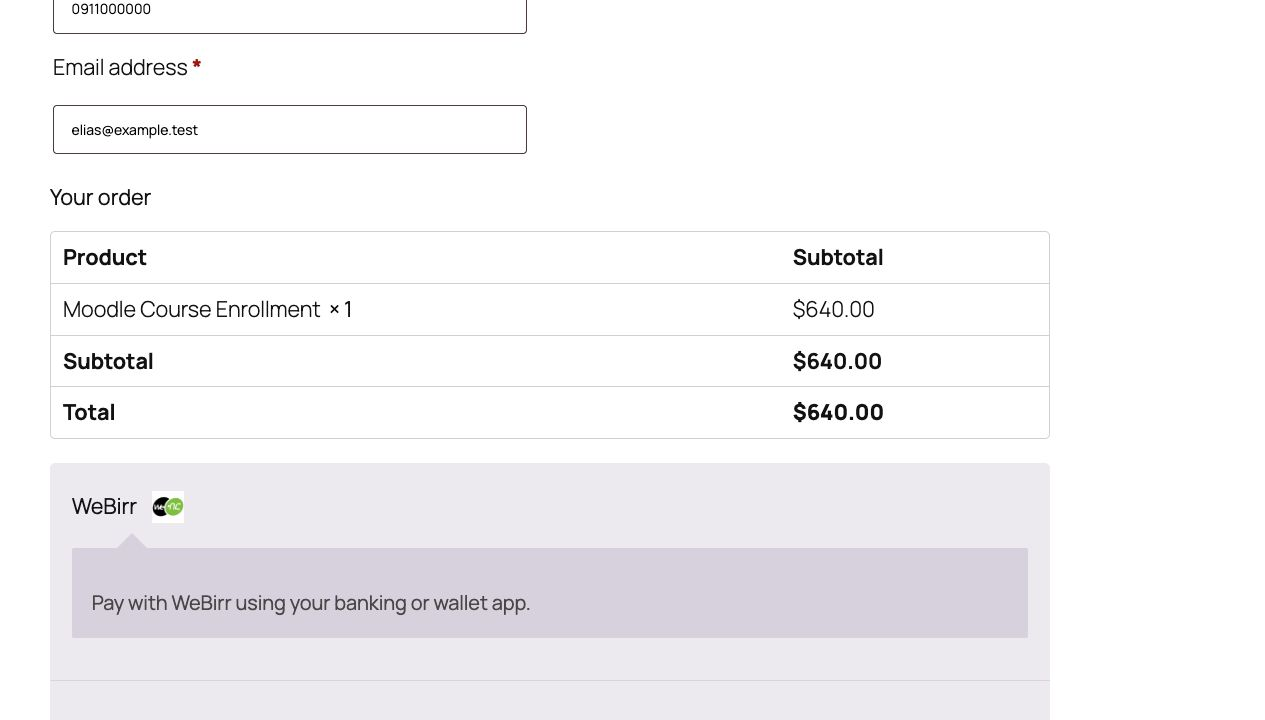
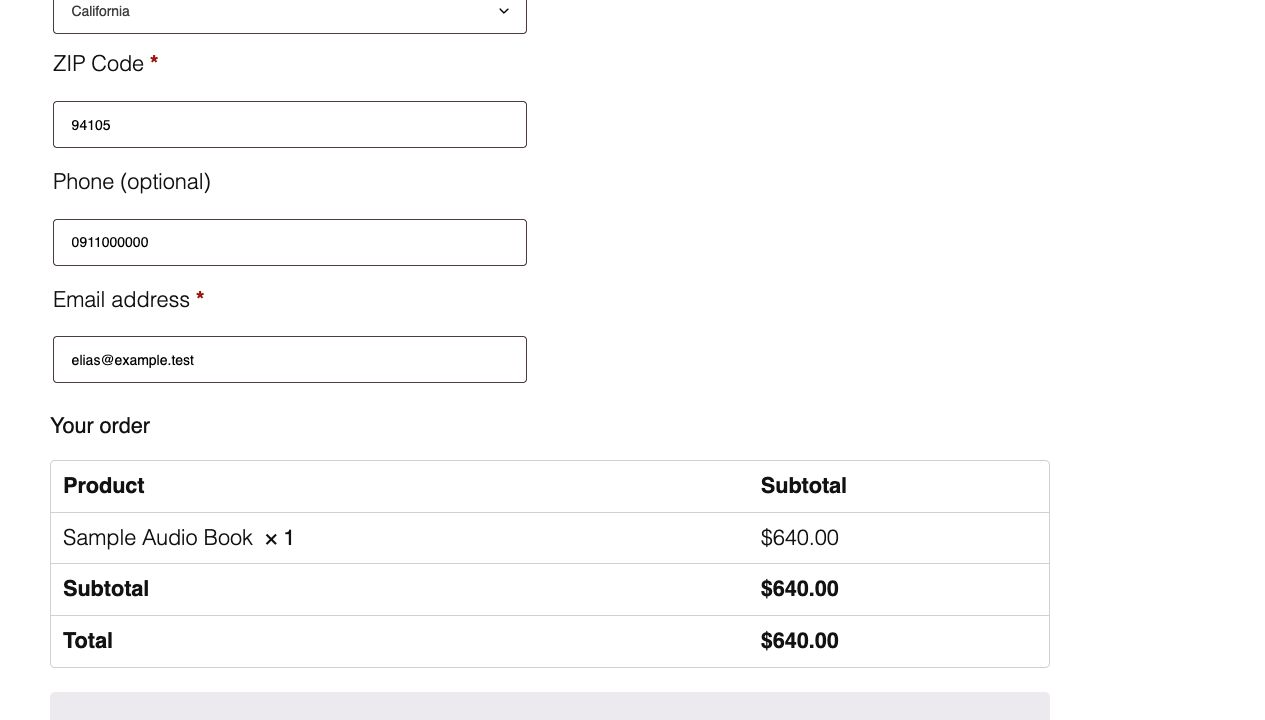
checkout sample cleanup

diff --git a/examples/standalone-checkout-demo/index.php b/examples/standalone-checkout-demo/index.php
@@ -81,9 +81,9 @@ function handle_api(string $path): void {
 
 function create_bill(): void {
     $payload = read_json_payload();
-    $amount = format_amount((string)($payload['amount'] ?? '530.00'));
+    $amount = format_amount((string)($payload['amount'] ?? '640.00'));
     $customername = trim((string)($payload['customerName'] ?? 'Elias'));
-    $description = trim((string)($payload['description'] ?? 'WooCommerce demo order'));
+    $description = trim((string)($payload['description'] ?? 'Sample audio book purchase'));
     $merchantreference = normalize_merchant_reference((string)($payload['merchantReference'] ?? default_merchant_reference()));
     $billreference = build_demo_bill_reference($merchantreference);
     $detailshash = details_hash($customername, $amount, $description);
@@ -94,7 +94,7 @@ function create_bill(): void {
         'customerName' => $customername !== '' ? $customername : 'Elias',
         'customerPhone' => '',
         'time' => date('Y-m-d H:i'),
-        'description' => $description !== '' ? $description : 'WooCommerce demo order',
+        'description' => $description !== '' ? $description : 'Sample audio book purchase',
         'billReference' => $billreference,
         'extras' => [
             'source' => 'woocommerce-standalone-demo',
@@ -431,7 +431,26 @@ function normalize_merchant_reference(string $merchantreference): string {
 }
 
 function default_merchant_reference(): string {
-    return 'woo/' . date('Y/m/d') . '/72627836';
+    return 'woo-demo-' . date('YmdHis') . '-' . demo_uuid();
+}
+
+function demo_uuid(): string {
+    try {
+        $bytes = random_bytes(16);
+    } catch (Exception $exception) {
+        $bytes = md5(uniqid('', true), true);
+    }
+
+    $hex = bin2hex($bytes);
+
+    return sprintf(
+        '%s-%s-%s-%s-%s',
+        substr($hex, 0, 8),
+        substr($hex, 8, 4),
+        substr($hex, 12, 4),
+        substr($hex, 16, 4),
+        substr($hex, 20, 12)
+    );
 }
 
 function build_demo_bill_reference(string $merchantreference): string {
@@ -826,11 +845,11 @@ function render_page(): void {
             </div>
             <div class="field">
                 <label for="amount">Amount</label>
-                <input id="amount" value="530.00" inputmode="decimal">
+                <input id="amount" value="640.00" inputmode="decimal">
             </div>
             <div class="field">
                 <label for="description">Description</label>
-                <input id="description" value="WooCommerce demo order">
+                <input id="description" value="Sample audio book purchase">
             </div>
             <div class="field">
                 <label for="merchantReference">Merchant reference</label>
@@ -913,8 +932,8 @@ function render_page(): void {
             function values() {
                 return {
                     customerName: document.getElementById('customerName').value.trim() || 'Elias',
-                    amount: document.getElementById('amount').value.trim() || '530.00',
-                    description: document.getElementById('description').value.trim() || 'WooCommerce demo order',
+                    amount: document.getElementById('amount').value.trim() || '640.00',
+                    description: document.getElementById('description').value.trim() || 'Sample audio book purchase',
                     merchantReference: document.getElementById('merchantReference').value.trim()
                 };
             }

diff --git a/includes/class-order-service.php b/includes/class-order-service.php
@@ -234,7 +234,7 @@ final class Order_Service {
 
         $site_id = function_exists('get_current_blog_id') ? (int)get_current_blog_id() : 1;
         $order_id = method_exists($order, 'get_id') ? (int)$order->get_id() : 0;
-        $reference = 'wc_' . $site_id . '_' . $order_id;
+        $reference = 'wc_' . $site_id . '_' . $order_id . '_' . $this->uuid();
 
         if (function_exists('apply_filters')) {
             $reference = (string)apply_filters('webirr_woocommerce_merchant_reference', $reference, $order);
@@ -244,6 +244,34 @@ final class Order_Service {
         $this->save($order);
 
         return $reference;
+    }
+
+    /**
+     * Generate a UUID-style suffix for new merchant references.
+     *
+     * @return string
+     */
+    private function uuid(): string {
+        if (function_exists('wp_generate_uuid4')) {
+            return (string)wp_generate_uuid4();
+        }
+
+        try {
+            $bytes = random_bytes(16);
+        } catch (\Exception $exception) {
+            $bytes = md5(uniqid('', true), true);
+        }
+
+        $hex = bin2hex($bytes);
+
+        return sprintf(
+            '%s-%s-%s-%s-%s',
+            substr($hex, 0, 8),
+            substr($hex, 8, 4),
+            substr($hex, 12, 4),
+            substr($hex, 16, 4),
+            substr($hex, 20, 12)
+        );
     }
 
     /**
@@ -444,4 +472,3 @@ final class Order_Service {
         return date($format === 'mysql' ? 'Y-m-d H:i:s' : $format);
     }
 }
-

diff --git a/tests/run.php b/tests/run.php
@@ -66,7 +66,7 @@ final class FakeOrder {
     }
 
     public function get_total(): string {
-        return '530.00';
+        return '640.00';
     }
 
     public function get_billing_first_name(): string {
@@ -144,13 +144,13 @@ function test_client_query_and_bill_payload(): void {
     assert_true(!str_contains($emptyMerchant->build_url('einvoice/api/banks'), 'merchant_id='), 'Empty merchant ID must not be sent.');
 
     $payload = $client->bill_payload([
-        'amount' => '530.00',
+        'amount' => '640.00',
         'customerCode' => '7',
         'customerName' => 'Elias',
         'customerPhone' => '0911000000',
         'time' => '2026-06-20 12:00',
         'description' => 'WooCommerce order 42',
-        'billReference' => 'wc_1_42',
+        'billReference' => 'wc_1_42_5f2f8d12-7e31-4e4e-a614-4be3b4e06c91',
         'merchantID' => 'from-bill',
         'extras' => [],
     ]);
@@ -172,7 +172,10 @@ function test_prepare_payment_create_and_reuse(): void {
     $result = $service->prepare_payment($order);
 
     assert_true((bool)$result['success'], 'Create flow should succeed.');
-    assert_same('wc_1_42', $result['merchantReference'], 'Stable merchant reference should be stored.');
+    assert_true(
+        preg_match('/^wc_1_42_[0-9a-f]{8}-[0-9a-f]{4}-[0-9a-f]{4}-[0-9a-f]{4}-[0-9a-f]{12}$/', (string)$result['merchantReference']) === 1,
+        'Stable merchant reference should include site, order, and UUID-style suffix.'
+    );
     assert_same('PAY123', $result['paymentCode'], 'Created payment code should be stored.');
     assert_same('GET', $calls[0]['method'], 'Recovery lookup should happen before create.');
     assert_same('POST', $calls[1]['method'], 'Create bill should be the last resort.');
@@ -264,4 +267,3 @@ foreach ($tests as $name => $test) {
 }
 
 echo "All tests passed.\n";
-

diff --git a/README.md b/README.md
@@ -99,7 +99,7 @@ At a glance, the payment flow is:
   method.
 - WooCommerce creates a pending order.
 - The plugin creates or resumes a WeBirr bill/invoice using a stable merchant
-  reference such as `wc_1_42`.
+  reference such as `wc_1_42_5f2f8d12-7e31-4e4e-a614-4be3b4e06c91`.
 - WooCommerce stores the WeBirr payment code and local payment state on the
   order.
 